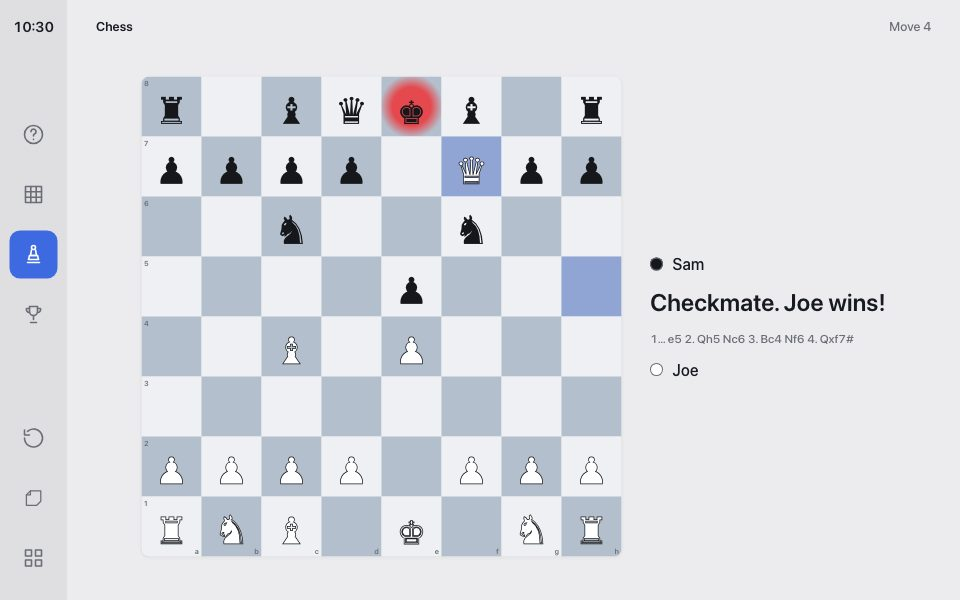
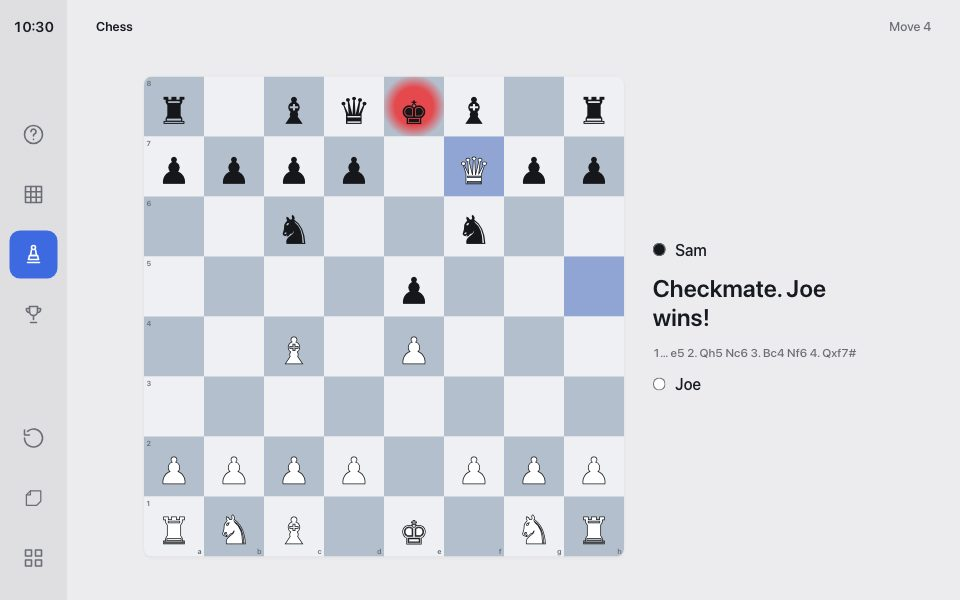
feat: spoken chess moves, tap to see moves, and a full-game demo from a voice script
- The board understands spoken moves ("knight takes e5", "castle kingside")
  by matching them against legal moves; ambiguous ones are flagged
- Passengers can tap a piece of the side to move to see its moves, one at a
  time; touch never changes the game
- The player whose turn it is stands out
- tests/scripts/chess-game.js: a voice script and mock assistant; an e2e test
  plays the whole game to checkmate, and npm run demo-video records it
- README opens with the chess demo GIF

diff --git a/plugins/voiceboard-chess/chess.js b/plugins/voiceboard-chess/chess.js
@@ -25,7 +25,32 @@ addStrings({
 const GLYPH = { k: '♚', q: '♛', r: '♜', b: '♝', n: '♞', p: '♟' };
 const PIECE = { k: 'king', q: 'queen', r: 'rook', b: 'bishop', n: 'knight', p: 'pawn' };
 
-const moveList = (v) => v.split(/[\s,]+/).filter(Boolean).slice(0, 600);
+// Moves are separated by commas, or by spaces when every word is already a move ("e4 e5 Nf3").
+// Anything else is one spoken move ("knight to f3").
+const NOTATION = /^([KQRBN]?[a-h]?[1-8]?x?[a-h][1-8](=[QRBN])?|O-O(-O)?|[a-h][1-8][a-h][1-8][qrbn]?)[+#]?$/;
+const moveList = (v) => {
+	const words = v.split(/\s+/).filter(Boolean);
+	const list = v.includes(',') ? v.split(',') : words.every((word) => NOTATION.test(word)) ? words : [v];
+	return list.map((s) => s.trim()).filter(Boolean).slice(0, 600);
+};
+
+const PIECES_SPOKEN = { king: 'k', queen: 'q', rook: 'r', bishop: 'b', knight: 'n', horse: 'n', pawn: 'p' };
+
+// Turns a spoken move ("knight takes e5", "castle queenside", "pawn to e8 promote to knight") into standard
+// notation by matching it against the legal moves. Ambiguous or impossible moves come back unchanged and fail.
+const fromSpeech = (text, game) => {
+	const words = text.toLowerCase().replace(/checkmate|check|[!?+#]/g, ' ');
+	if (/castl/.test(words)) return /queen|long/.test(words) ? 'O-O-O' : 'O-O';
+	const squares = words.match(/[a-h][1-8]/g) ?? [];
+	const piece = Object.entries(PIECES_SPOKEN).find(([word]) => new RegExp(`\\b${word}\\b`).test(words.replace(/promot\w*.*/, '')))?.[1];
+	const promotion = PIECES_SPOKEN[words.match(/promot\w*\s*(?:to\s*)?(queen|rook|bishop|knight)/)?.[1]];
+	const candidates = game.moves({ verbose: true }).filter((m) =>
+		m.to === squares.at(-1)
+		&& (!piece || m.piece === piece)
+		&& (squares.length < 2 || m.from === squares[0])
+		&& (!m.promotion || m.promotion === (promotion ?? 'q')));
+	return candidates.length === 1 ? candidates[0].san : text;
+};
 
 // Replays the moves, stopping at the first one that isn't legal.
 const replay = (moves) => {
@@ -34,7 +59,11 @@ const replay = (moves) => {
 		try {
 			game.move(move);
 		} catch {
-			return { game, illegal: move, at: i + 1 };
+			try {
+				game.move(fromSpeech(move, game));
+			} catch {
+				return { game, illegal: move, at: i + 1 };
+			}
 		}
 	}
 	return { game };
@@ -66,10 +95,25 @@ const boardView = ({ chess: { game }, side }) => {
 			piece && h('span', `piece ${piece.color}`, GLYPH[piece.type]),
 			c === 0 && h('span', 'coord rank', square[1]),
 			r === 7 && h('span', 'coord file', square[0]));
+		cell.dataset.square = square;
 		cell.setAttribute('role', 'gridcell');
 		cell.setAttribute('aria-label', piece ? `${square}: ${piece.color === 'w' ? 'white' : 'black'} ${PIECE[piece.type]}` : `${square}: empty`);
 		grid.append(cell);
 	}));
+
+	// Touch only: tap a piece of the side to move to see where it can go. One piece at a time; tap again to clear.
+	// It never changes the game.
+	grid.addEventListener('click', (event) => {
+		const cell = event.target.closest('.sq');
+		const selected = grid.querySelector('.sq.selected')?.dataset.square;
+		grid.querySelectorAll('.selected, .target, .capture').forEach((el) => el.classList.remove('selected', 'target', 'capture'));
+		const piece = cell && game.get(cell.dataset.square);
+		if (!piece || cell.dataset.square === selected || piece.color !== game.turn() || game.isGameOver()) return;
+		cell.classList.add('selected');
+		for (const move of game.moves({ square: cell.dataset.square, verbose: true })) {
+			grid.querySelector(`[data-square="${move.to}"]`).classList.add(move.captured ? 'capture' : 'target');
+		}
+	});
 	return grid;
 };
 

diff --git a/tests/scripts/chess-game.js b/tests/scripts/chess-game.js
@@ -1,0 +1,39 @@
+// A whole chess game, starting from what people say in the car. Used by the end-to-end test and the demo video.
+// The game is Légal's mate (1755): seven moves, a queen sacrifice, and a knight checkmate.
+export const VOICE_SCRIPT = [
+	{ speaker: 'Driver', says: 'Hey, open voiceboardgames.com and host chess for Joe and Sam. Joe is white.' },
+	{ speaker: 'Joe', says: 'Pawn to e4' },
+	{ speaker: 'Sam', says: 'Pawn to e5' },
+	{ speaker: 'Joe', says: 'Knight to f3' },
+	{ speaker: 'Sam', says: 'Pawn to d6' },
+	{ speaker: 'Joe', says: 'Bishop to c4' },
+	{ speaker: 'Sam', says: 'Bishop to g4' },
+	{ speaker: 'Joe', says: 'Knight to c3' },
+	{ speaker: 'Sam', says: 'Pawn to g6' },
+	{ speaker: 'Joe', says: 'Knight takes e5' },
+	{ speaker: 'Sam', says: 'Bishop takes d1. I got your queen!' },
+	{ speaker: 'Joe', says: 'Bishop takes f7, check' },
+	{ speaker: 'Sam', says: 'King to e7' },
+	{ speaker: 'Joe', says: 'Knight to d5. Checkmate!' },
+];
+
+/**
+ * A mock assistant: what we expect a real voice assistant to do with each line. It sets up the game,
+ * then appends each spoken move to the move list and opens the new URL. It passes spoken moves through
+ * as-is (comma-separated) to exercise the board's speech helper.
+ */
+export const mockAssistant = (code = 'demo-chess') => {
+	const moves = [];
+	let players = '';
+	return ({ speaker, says }) => {
+		const setup = says.match(/host chess for (\w+) and (\w+)/i);
+		if (setup) {
+			players = `${setup[1]}:0,${setup[2]}:0`;
+		} else {
+			moves.push(says.split(/[.!]/)[0].replace(/,/g, '').trim()); // commas separate moves
+		}
+		const params = new URLSearchParams({ g: 'chess', code, p: players });
+		if (moves.length) params.set('mv', moves.join(','));
+		return `?${params}`;
+	};
+};

diff --git a/plugins/voiceboard-chess/chess.css b/plugins/voiceboard-chess/chess.css
@@ -34,12 +34,18 @@
 .coord.file { bottom: 0.2em; right: 0.35em; }
 
 .chess-layout { display: flex; align-items: center; justify-content: center; gap: 3vw; }
-.chess-side { display: flex; flex-direction: column; gap: 2.4vh; min-width: 20vw; }
+.chess-side { display: flex; flex-direction: column; gap: 2.4vh; width: 24vw; }
 .chess-status { margin: 0; font-size: clamp(1.4rem, 4.2vh, 3rem); font-weight: 600; }
 .chess-illegal { margin: 0; color: var(--danger); font-size: clamp(1rem, 2.6vh, 1.6rem); font-weight: 600; }
 .chess-moves { margin: 0; color: var(--muted); font-size: clamp(1rem, 2.4vh, 1.5rem); font-variant-numeric: tabular-nums; }
 .chess-player { display: flex; align-items: center; gap: 0.6em; font-size: clamp(1.1rem, 3vh, 2rem); }
-.chess-player.is-turn { color: var(--accent); font-weight: 600; }
+.chess-player.is-turn { color: var(--accent); font-weight: 600; font-size: clamp(1.4rem, 4vh, 2.6rem); }
+.chess-player.is-turn .dot { box-shadow: 0 0 0 3px var(--accent); }
+
+/* Tap-to-see moves (touch only) */
+.sq.selected { box-shadow: inset 0 0 0 4px var(--accent); }
+.sq.target::before { content: ""; position: absolute; z-index: 2; width: 28%; aspect-ratio: 1; border-radius: 50%; background: color-mix(in srgb, var(--accent) 70%, transparent); }
+.sq.capture::before { content: ""; position: absolute; z-index: 2; inset: 6%; border-radius: 50%; box-shadow: inset 0 0 0 5px color-mix(in srgb, var(--accent) 75%, transparent); }
 .dot { width: 0.8em; height: 0.8em; border-radius: 50%; box-shadow: inset 0 0 0 2px var(--muted); }
 .dot.w { background: #fff; }
 .dot.b { background: #15171a; }

diff --git a/tests/chess-game.spec.js b/tests/chess-game.spec.js
@@ -1,0 +1,31 @@
+import { test, expect } from './fixtures.js';
+import { VOICE_SCRIPT, mockAssistant } from './scripts/chess-game.js';
+
+// End to end: a full game driven only by a voice script and a mock assistant that turns speech into URLs.
+test('a whole chess game, from the voice script to checkmate', async ({ open, page }) => {
+	const assistant = mockAssistant(`e2e-${Date.now()}`);
+	const expectAfter = {
+		1: { status: 'White to move', square: 'e1: white king' },
+		2: { status: 'Black to move', square: 'e4: white pawn' },
+		10: { status: 'Black to move', square: 'e5: white knight' },
+		11: { status: 'White to move', square: 'd1: black bishop' },
+		12: { status: 'Check!', square: 'f7: white bishop' },
+		14: { status: 'Checkmate. Joe wins!', square: 'd5: white knight' },
+	};
+
+	for (const [index, line] of VOICE_SCRIPT.entries()) {
+		await open(assistant(line).slice(1));
+		await expect(page.locator('.chess-illegal'), `"${line.says}" was not understood`).toHaveCount(0);
+		const expected = expectAfter[index + 1];
+		if (expected) {
+			await expect(page.locator('.chess-status')).toHaveText(expected.status);
+			await expect(page.getByRole('gridcell', { name: expected.square })).toBeVisible();
+		}
+	}
+	await expect(page.locator('.chess-moves')).toContainText('7. Nd5#');
+});
+
+test('spoken moves that two pieces could make are flagged', async ({ open, page }) => {
+	await open('g=chess&mv=pawn to d4,pawn to d5,knight to f3,knight to f6,knight to d2,pawn to e6,knight to f3');
+	await expect(page.locator('.chess-illegal')).toHaveText('Not a legal move: knight to d2');
+});

diff --git a/tests/chess.spec.js b/tests/chess.spec.js
@@ -49,3 +49,22 @@ test('chess puts the position and legal moves in the transcript', async ({ page,
 	expect(text).toContain('Board: Chess. Position (FEN): rnbqkbnr/pppp1ppp/8/4p3/4P3/8/PPPP1PPP/RNBQKBNR w KQkq');
 	expect(text).toContain('Legal moves:');
 });
+
+test.describe('chess: tap to see moves', () => {
+	test('one piece at a time, only for the side to move, and it changes nothing', async ({ open, page }) => {
+		await open('g=chess&p=Joe:0,Sam:0');
+		const cell = (square) => page.locator(`[data-square="${square}"]`);
+		await cell('e2').click();
+		await expect(page.locator('.sq.target')).toHaveCount(2);
+		await expect(cell('e4')).toHaveClass(/target/);
+		await cell('g1').click();
+		await expect(page.locator('.sq.selected')).toHaveCount(1);
+		await expect(page.locator('.sq.target')).toHaveCount(2);
+		await expect(cell('f3')).toHaveClass(/target/);
+		await cell('g1').click();
+		await expect(page.locator('.sq.target')).toHaveCount(0);
+		await cell('e7').click();
+		await expect(page.locator('.sq.selected')).toHaveCount(0);
+		await expect(page).toHaveURL(/g=chess&p=Joe:0,Sam:0$/);
+	});
+});

diff --git a/plugins/voiceboard-chess/instructions.md b/plugins/voiceboard-chess/instructions.md
@@ -3,6 +3,7 @@
 Players call out moves; you send the whole move list each time and the board checks it with real chess rules.
 
 - mv: every move so far, in order, separated by spaces, e.g. mv=e4+e5+Nf3+Nc6. Standard notation (Nf3, O-O, exd5, e8=Q) or squares (e2e4, g1f3) both work.
+- Spoken moves work too if you separate moves with commas: mv=pawn to e4,pawn to e5,knight to f3. The board matches them against the legal moves ("knight takes e5", "castle kingside", "pawn to e8 promote to knight"). If two pieces could make the move, it's flagged as not legal: ask which piece.
 - p: the two players, White first, e.g. p=Joe:0,Sam:0
 - side=b: show the board from Black's side
 - If a move is illegal, the board says so and ignores it and everything after it. Ask the player for another move.

diff --git a/README.md b/README.md
@@ -6,7 +6,11 @@ It ships as a WordPress plugin that serves the board at `/board/`, and it also r
 
 ## Try it
 
-Each screenshot is one screen, exactly as an assistant would open it. Click one to open it live.
+A whole game of chess, played by voice. Each caption is what someone said; a mock assistant turned it into the next URL. The same script runs as an end-to-end test (`tests/chess-game.spec.js`), and `npm run demo-video` re-records it.
+
+![A chess game played by voice, from the first move to checkmate](docs/chess-demo.gif)
+
+Each screenshot below is one screen, exactly as an assistant would open it. Click one to open it live.
 
 <!-- examples:start -->
 <table>
